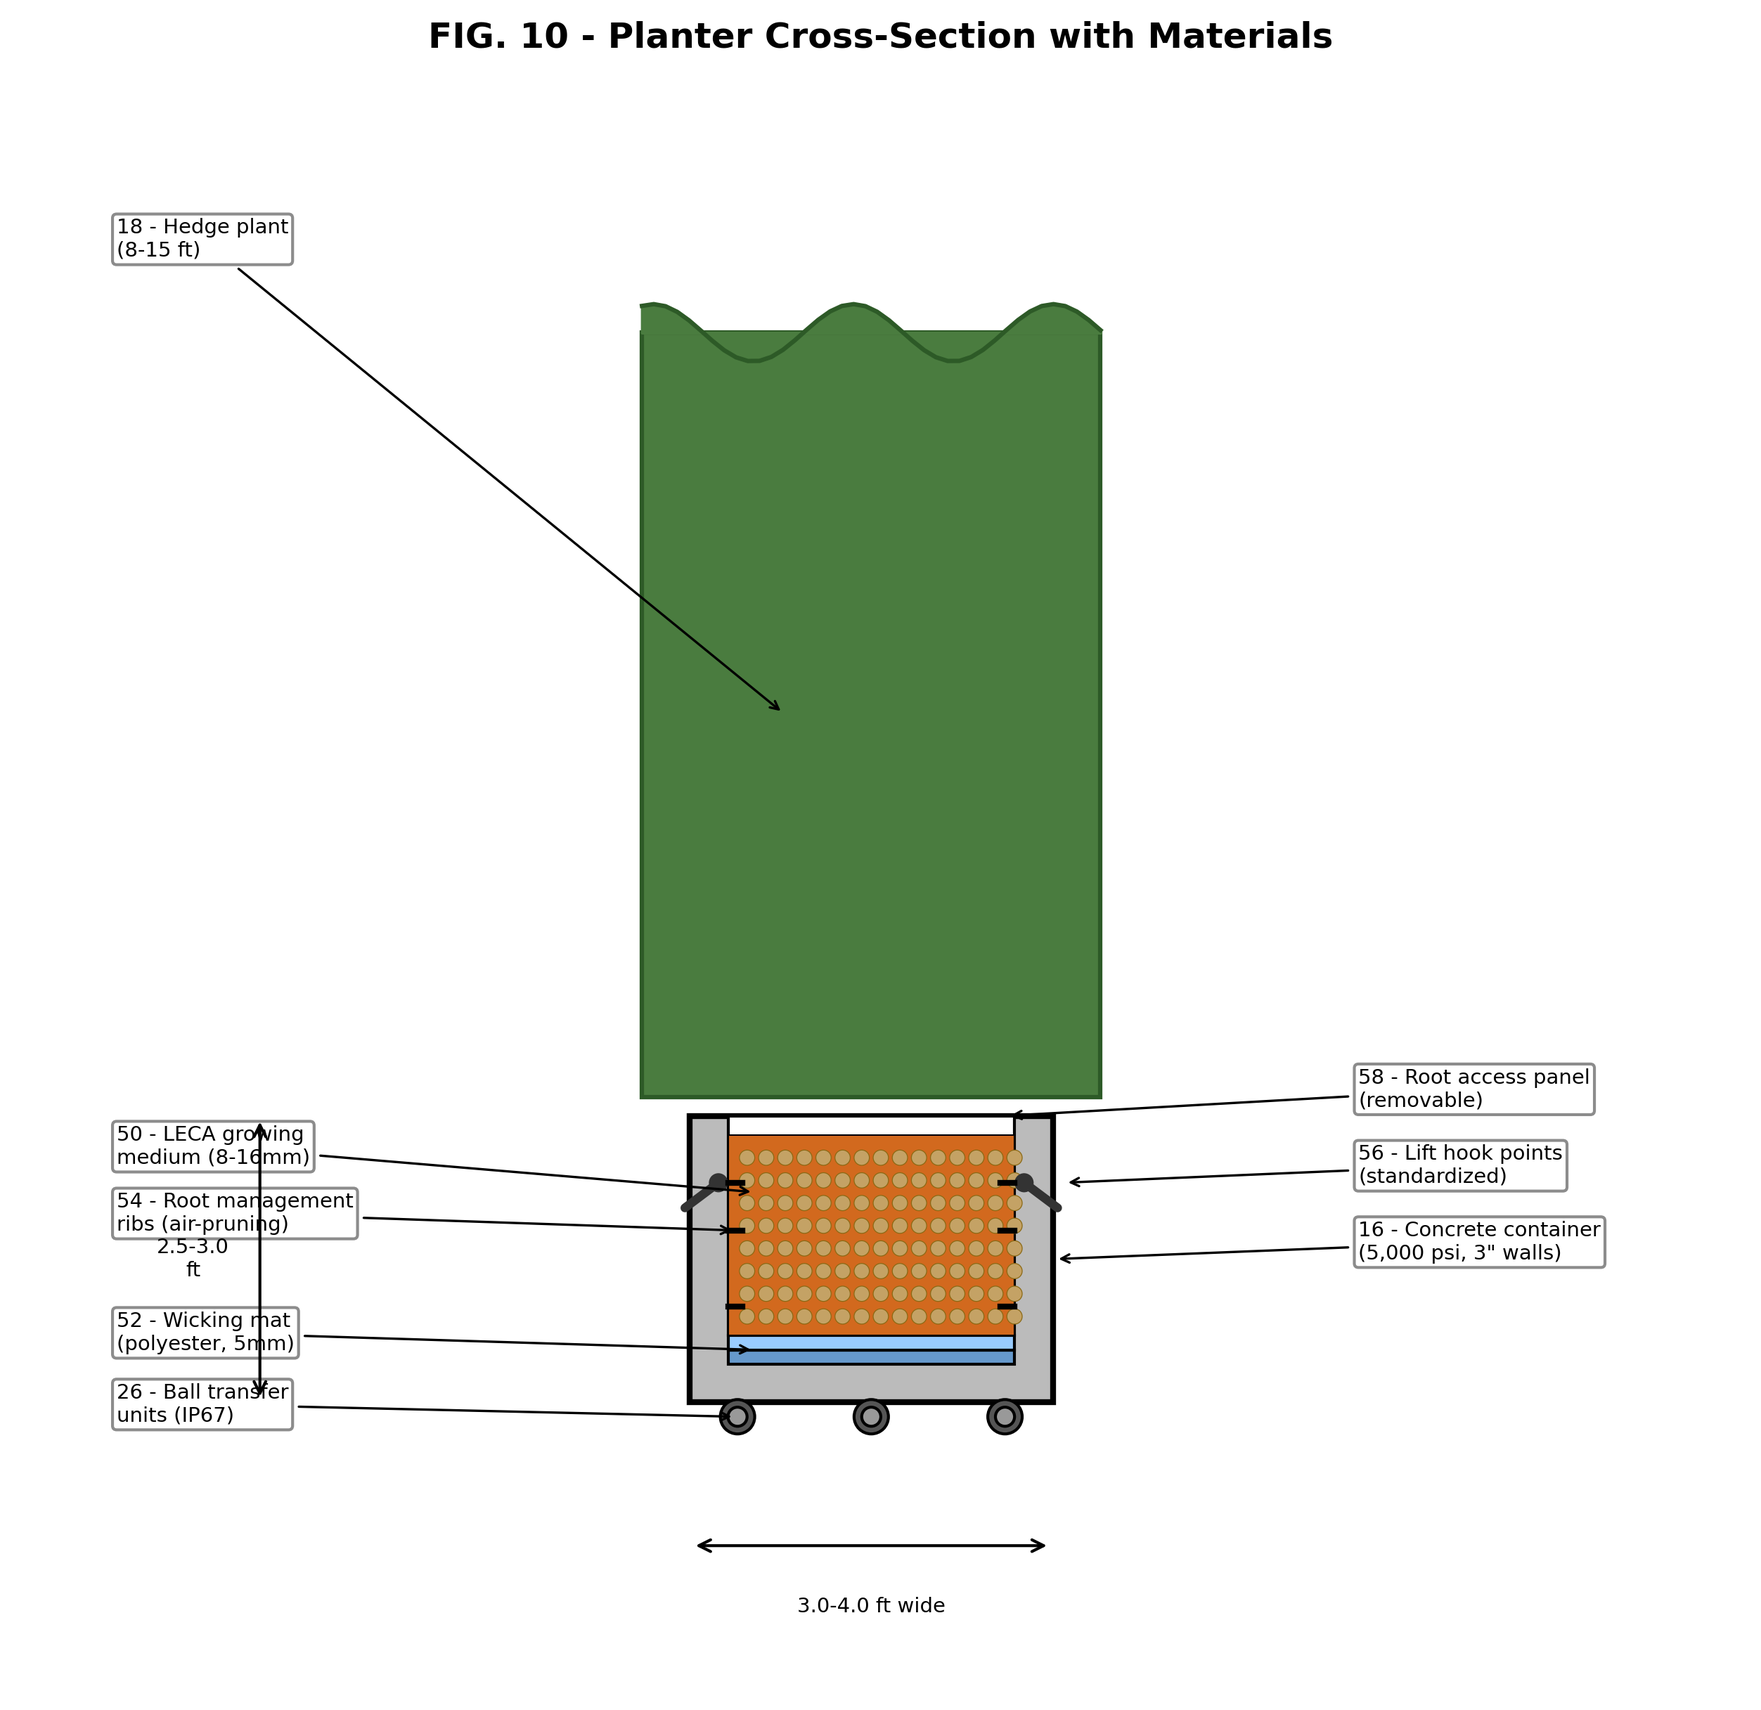
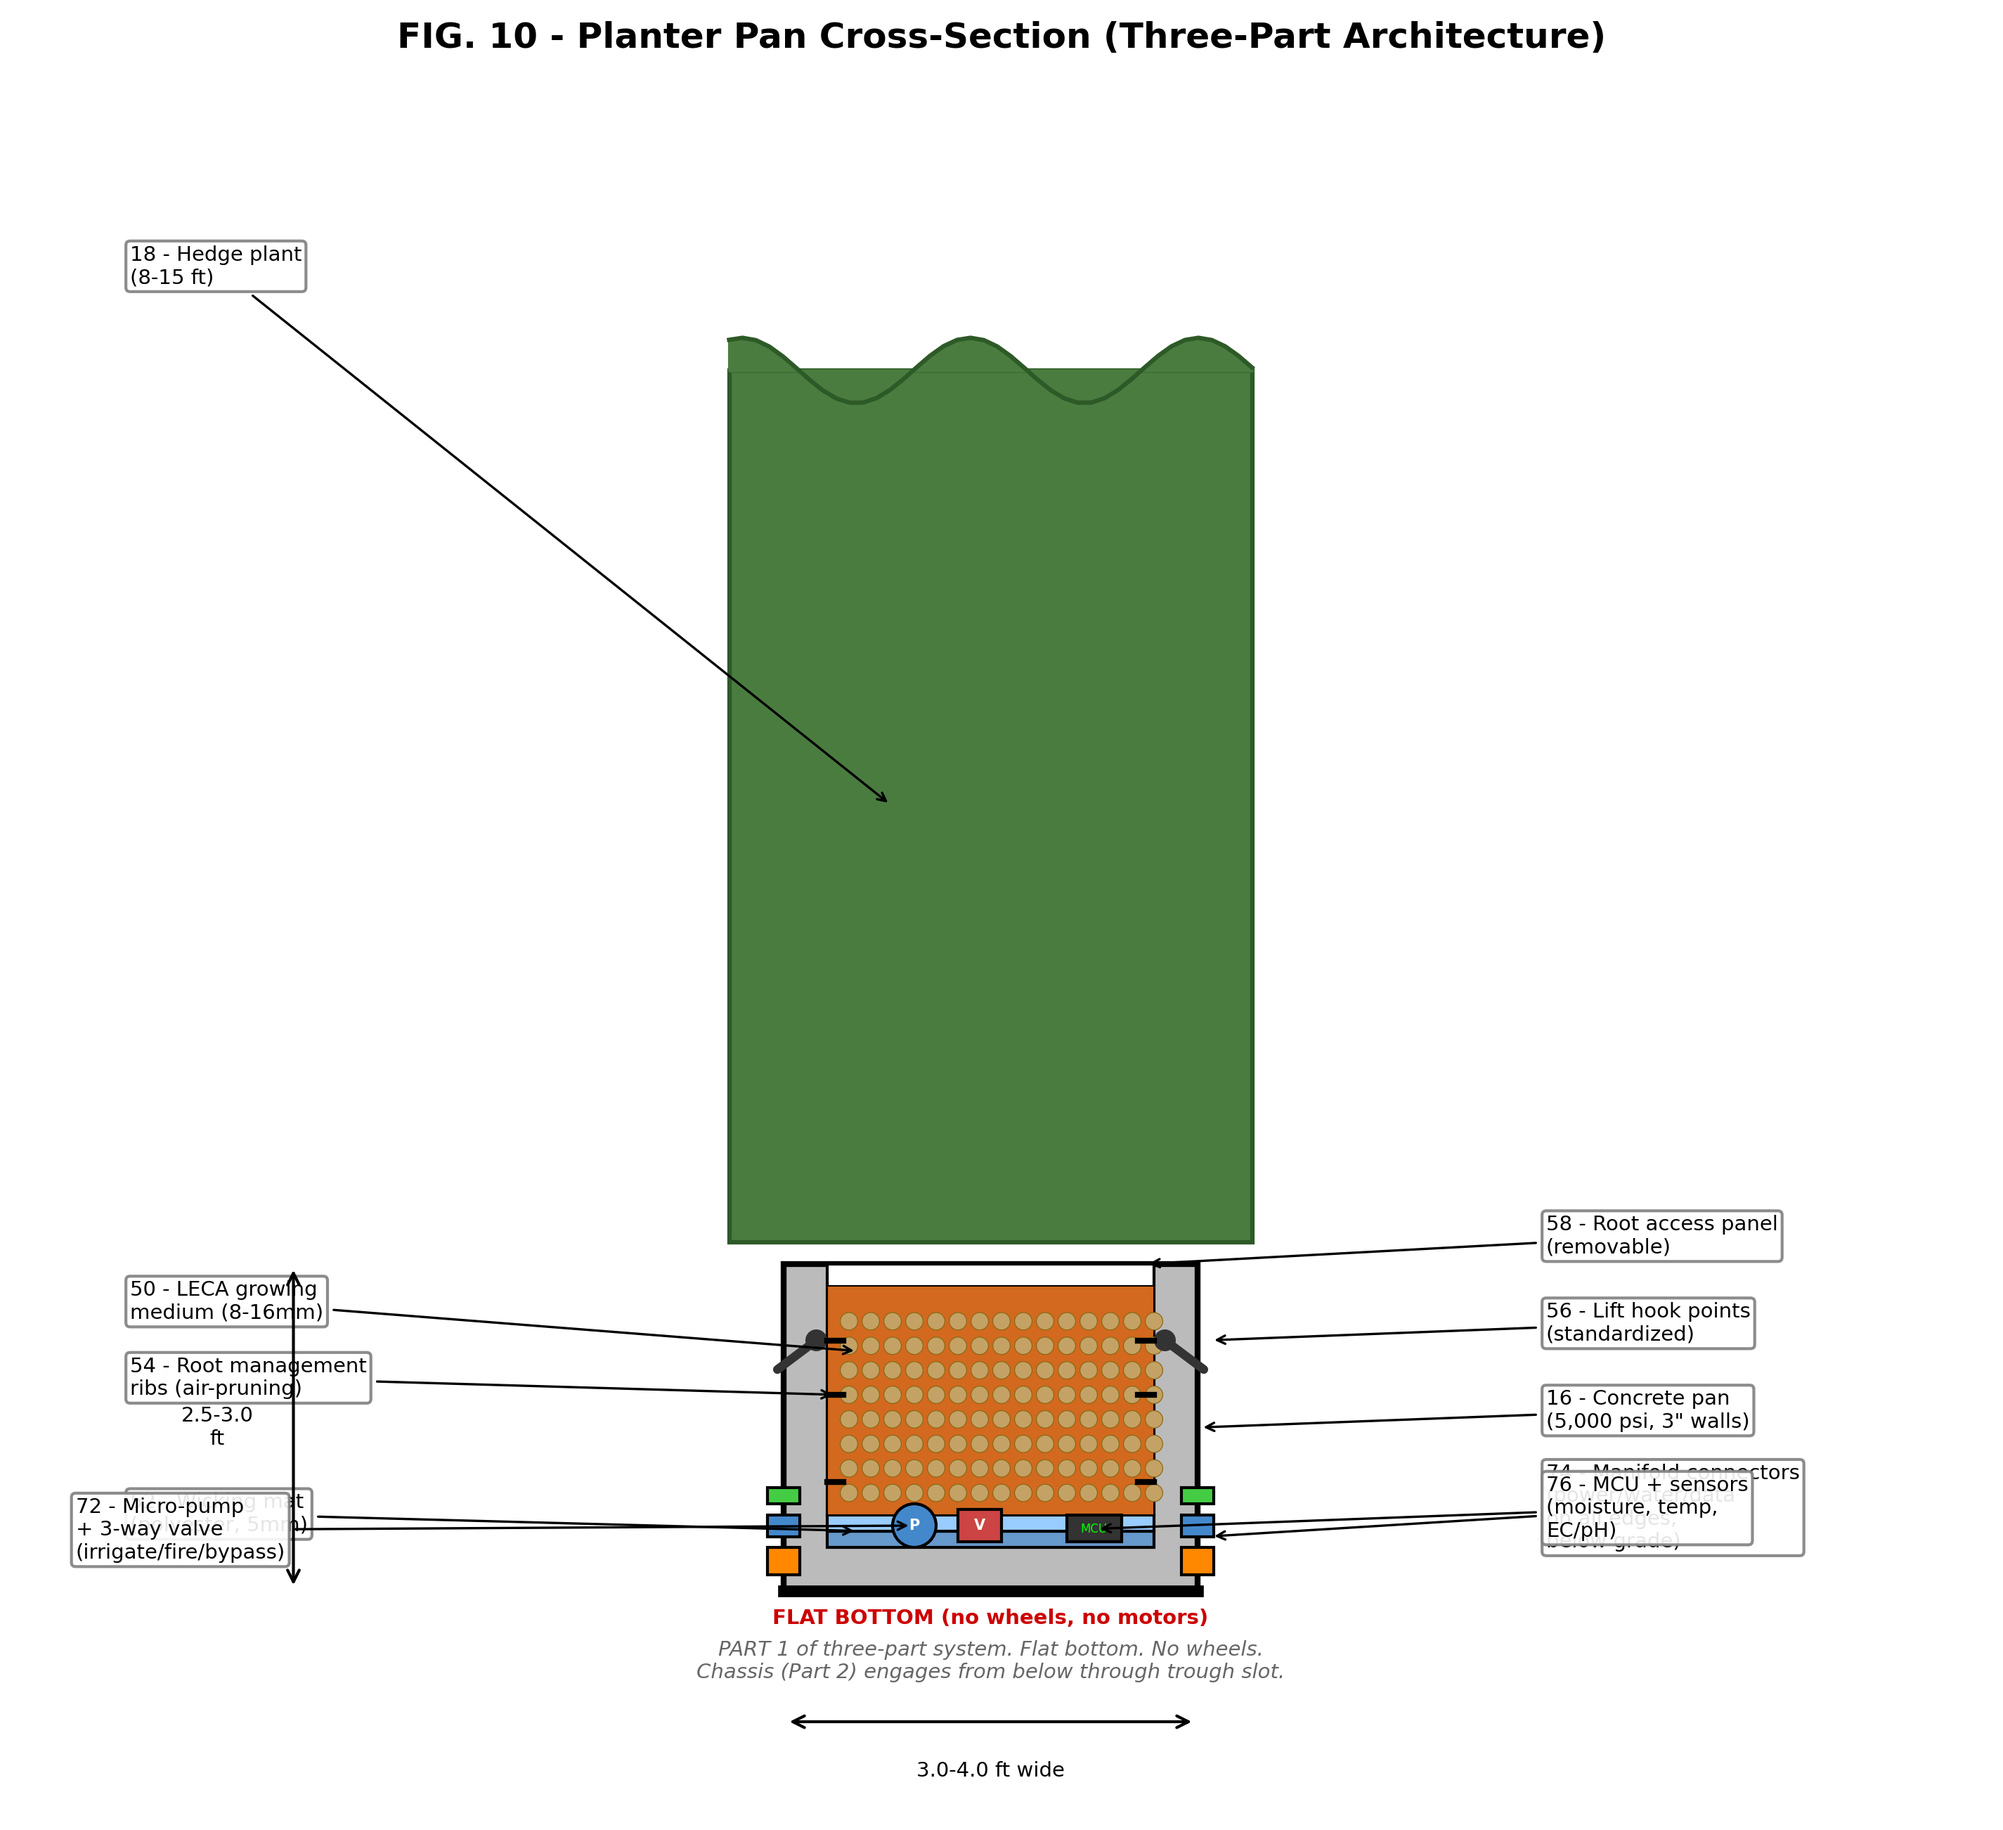
Fix Fig 10: planter PAN cross-section for three-part architecture
- Removed ball transfer units / wheels from pan bottom
- Added FLAT BOTTOM emphasis (bold line, red label)
- Added manifold connectors on edges (power/water/data, below grade)
- Added micro-pump + 3-way valve (P) and MCU + sensors inside pan
- Added note: 'Part 1 of three-part system. No wheels.'
- All figures now consistent with three-part architecture

diff --git a/patent/generate_drawings_v2.py b/patent/generate_drawings_v2.py
@@ -172,12 +172,14 @@ def fig9_terrace_transit():
 
 
 def fig10_planter_crosssection():
-    """Detailed planter cross-section with materials"""
-    fig, ax = plt.subplots(1, 1, figsize=(12, 10))
+    """Planter PAN cross-section (three-part architecture).
+    Pan has FLAT BOTTOM, no wheels. Shows manifolds, pump, sensors."""
+    fig, ax = plt.subplots(1, 1, figsize=(12, 11))
     ax.set_xlim(-4, 14)
-    ax.set_ylim(-3, 14)
+    ax.set_ylim(-2, 14)
     ax.set_aspect('equal')
-    ax.set_title('FIG. 10 - Planter Cross-Section with Materials', fontsize=12, fontweight='bold')
+    ax.set_title('FIG. 10 - Planter Pan Cross-Section (Three-Part Architecture)',
+                fontsize=12, fontweight='bold')
 
     # Container walls (concrete)
     wall_t = 0.4
@@ -185,30 +187,40 @@ def fig10_planter_crosssection():
     depth = 3.0
     outer_left = 3
     outer_right = outer_left + inner_w + 2*wall_t
+    pan_bottom = 0
 
-    # Outer container
-    ax.add_patch(patches.Rectangle((outer_left, 0), inner_w + 2*wall_t, depth,
+    # Outer container (concrete pan)
+    ax.add_patch(patches.Rectangle((outer_left, pan_bottom), inner_w + 2*wall_t, depth,
                  facecolor='#bbbbbb', edgecolor='black', linewidth=2))
     # Inner void
-    ax.add_patch(patches.Rectangle((outer_left + wall_t, wall_t + 0.3), inner_w, depth - wall_t - 0.3,
+    ax.add_patch(patches.Rectangle((outer_left + wall_t, pan_bottom + wall_t + 0.3),
+                 inner_w, depth - wall_t - 0.3,
                  facecolor='white', edgecolor='black', linewidth=1))
 
-    # Wicking mat at bottom
-    ax.add_patch(patches.Rectangle((outer_left + wall_t, wall_t), inner_w, 0.15,
-                 facecolor='#6699cc', edgecolor='black'))
-    ax.add_patch(patches.Rectangle((outer_left + wall_t, wall_t + 0.15), inner_w, 0.15,
-                 facecolor='#99ccff', edgecolor='black'))
+    # FLAT BOTTOM emphasis (thick line, labeled)
+    ax.plot([outer_left, outer_right], [pan_bottom]*2, 'k-', linewidth=4)
+    ax.text((outer_left + outer_right)/2, pan_bottom - 0.3,
+           'FLAT BOTTOM (no wheels, no motors)',
+           ha='center', fontsize=7, fontweight='bold', color='#c00')
+
+    # Wicking mat at bottom interior
+    ax.add_patch(patches.Rectangle((outer_left + wall_t, pan_bottom + wall_t),
+                 inner_w, 0.15, facecolor='#6699cc', edgecolor='black'))
+    ax.add_patch(patches.Rectangle((outer_left + wall_t, pan_bottom + wall_t + 0.15),
+                 inner_w, 0.15, facecolor='#99ccff', edgecolor='black'))
 
     # LECA growing medium
-    ax.add_patch(patches.Rectangle((outer_left + wall_t, wall_t + 0.3), inner_w, depth - wall_t - 0.5,
+    medium_bottom = pan_bottom + wall_t + 0.3
+    medium_top = depth - 0.2
+    ax.add_patch(patches.Rectangle((outer_left + wall_t, medium_bottom),
+                 inner_w, medium_top - medium_bottom,
                  facecolor='#D2691E', edgecolor='black', linewidth=0.5))
-    # Draw some circles to represent LECA pellets
     for i in range(15):
         for j in range(8):
             cx = outer_left + wall_t + 0.2 + i * (inner_w/15)
-            cy = wall_t + 0.5 + j * ((depth - wall_t - 0.7)/8)
-            r = 0.08
-            ax.add_patch(plt.Circle((cx, cy), r, facecolor='#C4A265', edgecolor='#8B6914', linewidth=0.3))
+            cy = medium_bottom + 0.2 + j * ((medium_top - medium_bottom - 0.3)/8)
+            ax.add_patch(plt.Circle((cx, cy), 0.08,
+                        facecolor='#C4A265', edgecolor='#8B6914', linewidth=0.3))
 
     # Root management ribs (air-pruning)
     for y in [1.0, 1.8, 2.3]:
@@ -222,15 +234,43 @@ def fig10_planter_crosssection():
                      arrowstyle='-', linewidth=3, color='#333'))
         ax.add_patch(plt.Circle((side_x - hook_dir*0.4, 2.3), 0.1, facecolor='#333'))
 
-    # Ball transfer units at bottom
-    for bx in [outer_left + 0.5, outer_left + inner_w/2 + wall_t, outer_right - 0.5]:
-        ax.add_patch(plt.Circle((bx, -0.15), 0.18, facecolor='#555', edgecolor='black'))
-        ax.add_patch(plt.Circle((bx, -0.15), 0.1, facecolor='#999', edgecolor='black'))
+    # Manifold connectors on edges (below rim height, at trough level)
+    for mx, side in [(outer_left, 'left'), (outer_right, 'right')]:
+        # Power connector (orange)
+        ax.add_patch(patches.Rectangle((mx - 0.15, pan_bottom + 0.15), 0.3, 0.25,
+                     facecolor='#ff8800', edgecolor='black', linewidth=1))
+        # Water connector (blue)
+        ax.add_patch(patches.Rectangle((mx - 0.15, pan_bottom + 0.5), 0.3, 0.2,
+                     facecolor='#4488cc', edgecolor='black', linewidth=1))
+        # Data connector (green)
+        ax.add_patch(patches.Rectangle((mx - 0.15, pan_bottom + 0.8), 0.3, 0.15,
+                     facecolor='#44cc44', edgecolor='black', linewidth=1))
+
+    # Micro-pump + 3-way valve (inside pan, bottom)
+    pump_x = outer_left + wall_t + 0.5
+    pump_y = pan_bottom + wall_t + 0.05
+    ax.add_patch(plt.Circle((pump_x + 0.3, pump_y + 0.15), 0.2,
+                 facecolor='#4488cc', edgecolor='black', linewidth=1))
+    ax.text(pump_x + 0.3, pump_y + 0.15, 'P', ha='center', va='center',
+           fontsize=5, color='white', fontweight='bold')
+    # Valve symbol
+    ax.add_patch(patches.Rectangle((pump_x + 0.7, pump_y), 0.4, 0.3,
+                 facecolor='#cc4444', edgecolor='black', linewidth=1))
+    ax.text(pump_x + 0.9, pump_y + 0.15, 'V', ha='center', va='center',
+           fontsize=5, color='white', fontweight='bold')
+
+    # MCU / electronics (small box in pan wall)
+    mcu_x = outer_right - wall_t - 0.8
+    ax.add_patch(patches.Rectangle((mcu_x, pan_bottom + wall_t + 0.05), 0.5, 0.25,
+                 facecolor='#333', edgecolor='black', linewidth=1))
+    ax.text(mcu_x + 0.25, pan_bottom + wall_t + 0.17, 'MCU', ha='center', va='center',
+           fontsize=4, color='#0f0')
 
     # Hedge above
     hedge_bottom = depth + 0.2
     hedge_h = 8.0
-    ax.add_patch(patches.Rectangle((outer_left - 0.5, hedge_bottom), inner_w + 2*wall_t + 1, hedge_h,
+    ax.add_patch(patches.Rectangle((outer_left - 0.5, hedge_bottom),
+                 inner_w + 2*wall_t + 1, hedge_h,
                  facecolor='#4a7c3f', edgecolor='#2d5a27', linewidth=1.5))
     x_wave = np.linspace(outer_left - 0.5, outer_right + 0.5, 40)
     y_wave = hedge_bottom + hedge_h + 0.3 * np.sin(x_wave * 3)
@@ -241,12 +281,14 @@ def fig10_planter_crosssection():
     labels = [
         ((-3, 12), (outer_left + 1, hedge_bottom + 4), '18 - Hedge plant\n(8-15 ft)'),
         ((-3, depth - 0.5), (outer_left + wall_t + 0.3, depth - 0.8), '50 - LECA growing\nmedium (8-16mm)'),
-        ((-3, wall_t + 0.15), (outer_left + wall_t + 0.3, wall_t + 0.15), '52 - Wicking mat\n(polyester, 5mm)'),
+        ((-3, wall_t + 0.15), (outer_left + wall_t + 0.3, pan_bottom + wall_t + 0.15), '52 - Wicking mat\n(polyester, 5mm)'),
         ((-3, 1.8), (outer_left + wall_t + 0.1, 1.8), '54 - Root management\nribs (air-pruning)'),
-        ((-3, -0.2), (outer_left + 0.5, -0.15), '26 - Ball transfer\nunits (IP67)'),
-        ((10, 1.5), (outer_right, 1.5), '16 - Concrete container\n(5,000 psi, 3" walls)'),
+        ((-3.5, pan_bottom + 0.3), (pump_x + 0.3, pump_y + 0.15), '72 - Micro-pump\n+ 3-way valve\n(irrigate/fire/bypass)'),
+        ((10, 1.5), (outer_right, 1.5), '16 - Concrete pan\n(5,000 psi, 3" walls)'),
         ((10, 2.3), (outer_right + 0.1, 2.3), '56 - Lift hook points\n(standardized)'),
         ((10, depth + 0.1), (outer_right - 0.5, depth), '58 - Root access panel\n(removable)'),
+        ((10, pan_bottom + 0.4), (outer_right + 0.1, pan_bottom + 0.5), '74 - Manifold connectors\n(power/water/data\non all edges,\nbelow grade)'),
+        ((10, pan_bottom + wall_t + 0.1), (mcu_x + 0.25, pan_bottom + wall_t + 0.17), '76 - MCU + sensors\n(moisture, temp,\nEC/pH)'),
     ]
     for text_pos, target, label in labels:
         ax.annotate(label, xy=target, xytext=text_pos, fontsize=7,
@@ -254,13 +296,18 @@ def fig10_planter_crosssection():
                    bbox=dict(boxstyle='round,pad=0.2', facecolor='white', edgecolor='gray', alpha=0.9))
 
     # Dimensions
-    ax.annotate('', xy=(-1.5, 0), xytext=(-1.5, depth),
+    ax.annotate('', xy=(-1.5, pan_bottom), xytext=(-1.5, depth),
                arrowprops=dict(arrowstyle='<->', lw=1))
     ax.text(-2.2, depth/2, '2.5-3.0\nft', fontsize=7, ha='center', va='center')
 
-    ax.annotate('', xy=(outer_left, -1.5), xytext=(outer_right, -1.5),
+    ax.annotate('', xy=(outer_left, -1.2), xytext=(outer_right, -1.2),
                arrowprops=dict(arrowstyle='<->', lw=1))
-    ax.text((outer_left + outer_right)/2, -2.2, '3.0-4.0 ft wide', fontsize=7, ha='center')
+    ax.text((outer_left + outer_right)/2, -1.7, '3.0-4.0 ft wide', fontsize=7, ha='center')
+
+    # Note
+    ax.text((outer_left + outer_right)/2, -0.8,
+           'PART 1 of three-part system. Flat bottom. No wheels.\nChassis (Part 2) engages from below through trough slot.',
+           ha='center', fontsize=7, style='italic', color='#666')
 
     ax.axis('off')
     save(fig, 'fig10_planter_crosssection.png')
